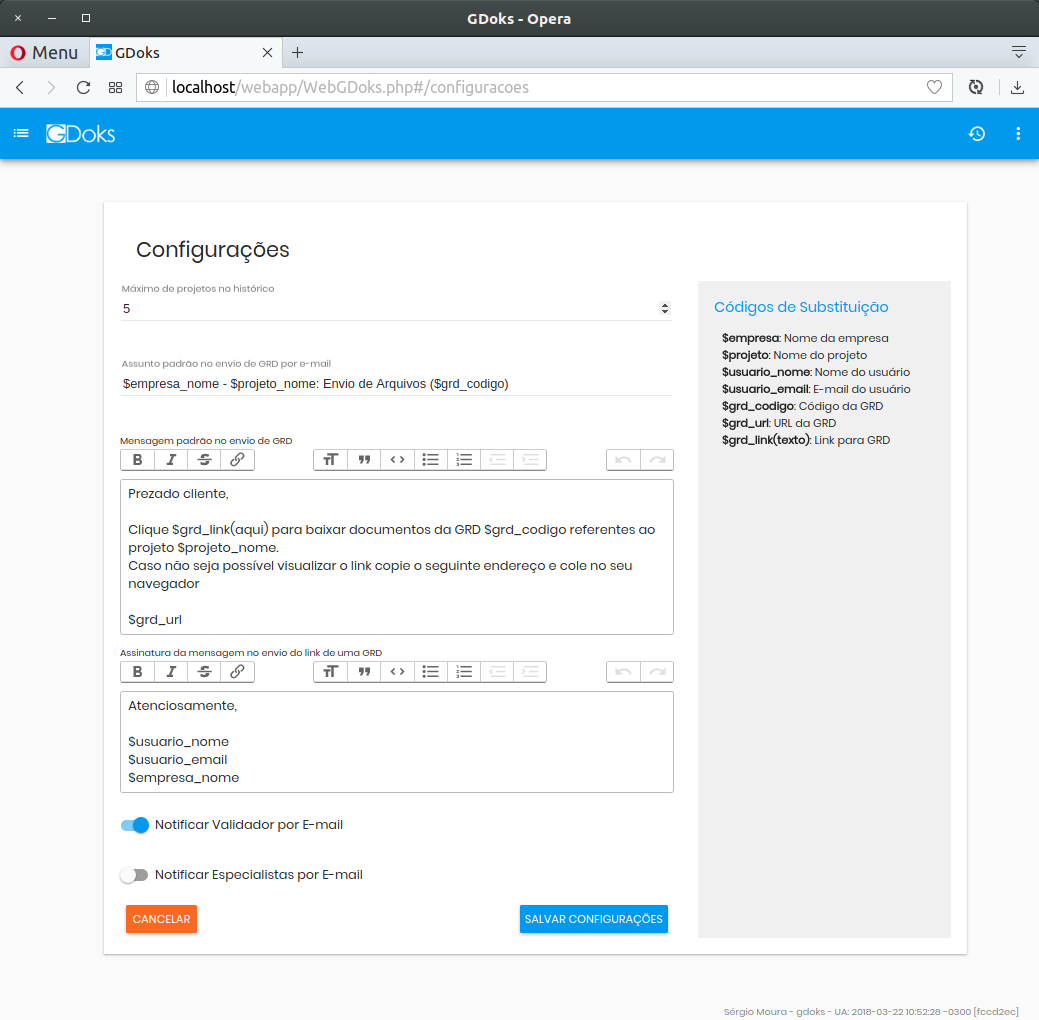
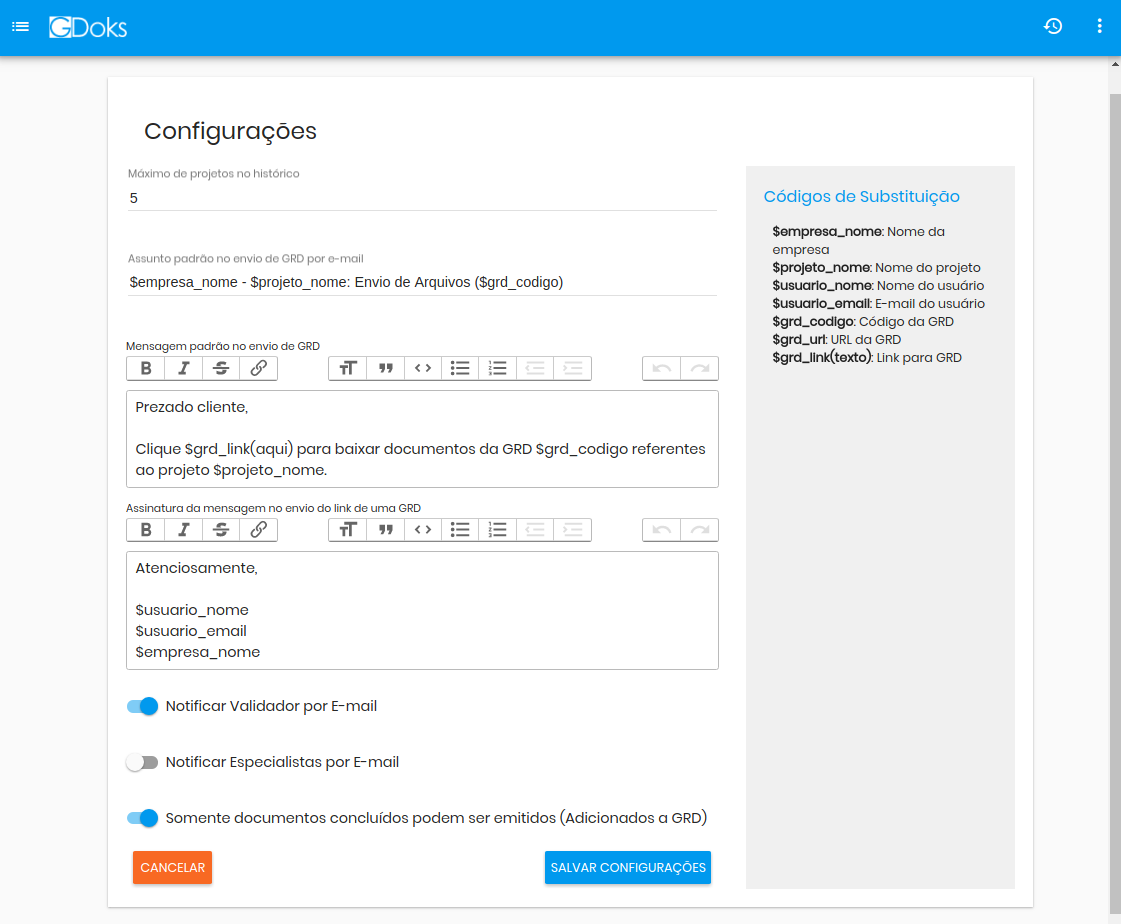
Alteração no help para abarcar nova funcionalidade de configuração

Changed region(s): [[0.0, 0.0, 1.0, 1.0], [0.5852, 0.6364, 0.6468, 0.697]]

diff --git a/www/help/help.html b/www/help/help.html
@@ -649,6 +649,11 @@
 				Quando habilitada, envia um e-mail para os especialistas para avisar que algum documento precisa da
 				atenção deles.
 			</p>
+
+			<h4>Somente Documentos Concluídos podem ser emitidos</h4>
+			<p>
+				Se habilitado, só poderá ser emitido (incluído numa GRD) o documento que estiver completo (progresso total em 100%).
+			</p>
 		</article>
 		
 		<article id="trocaSenha">
